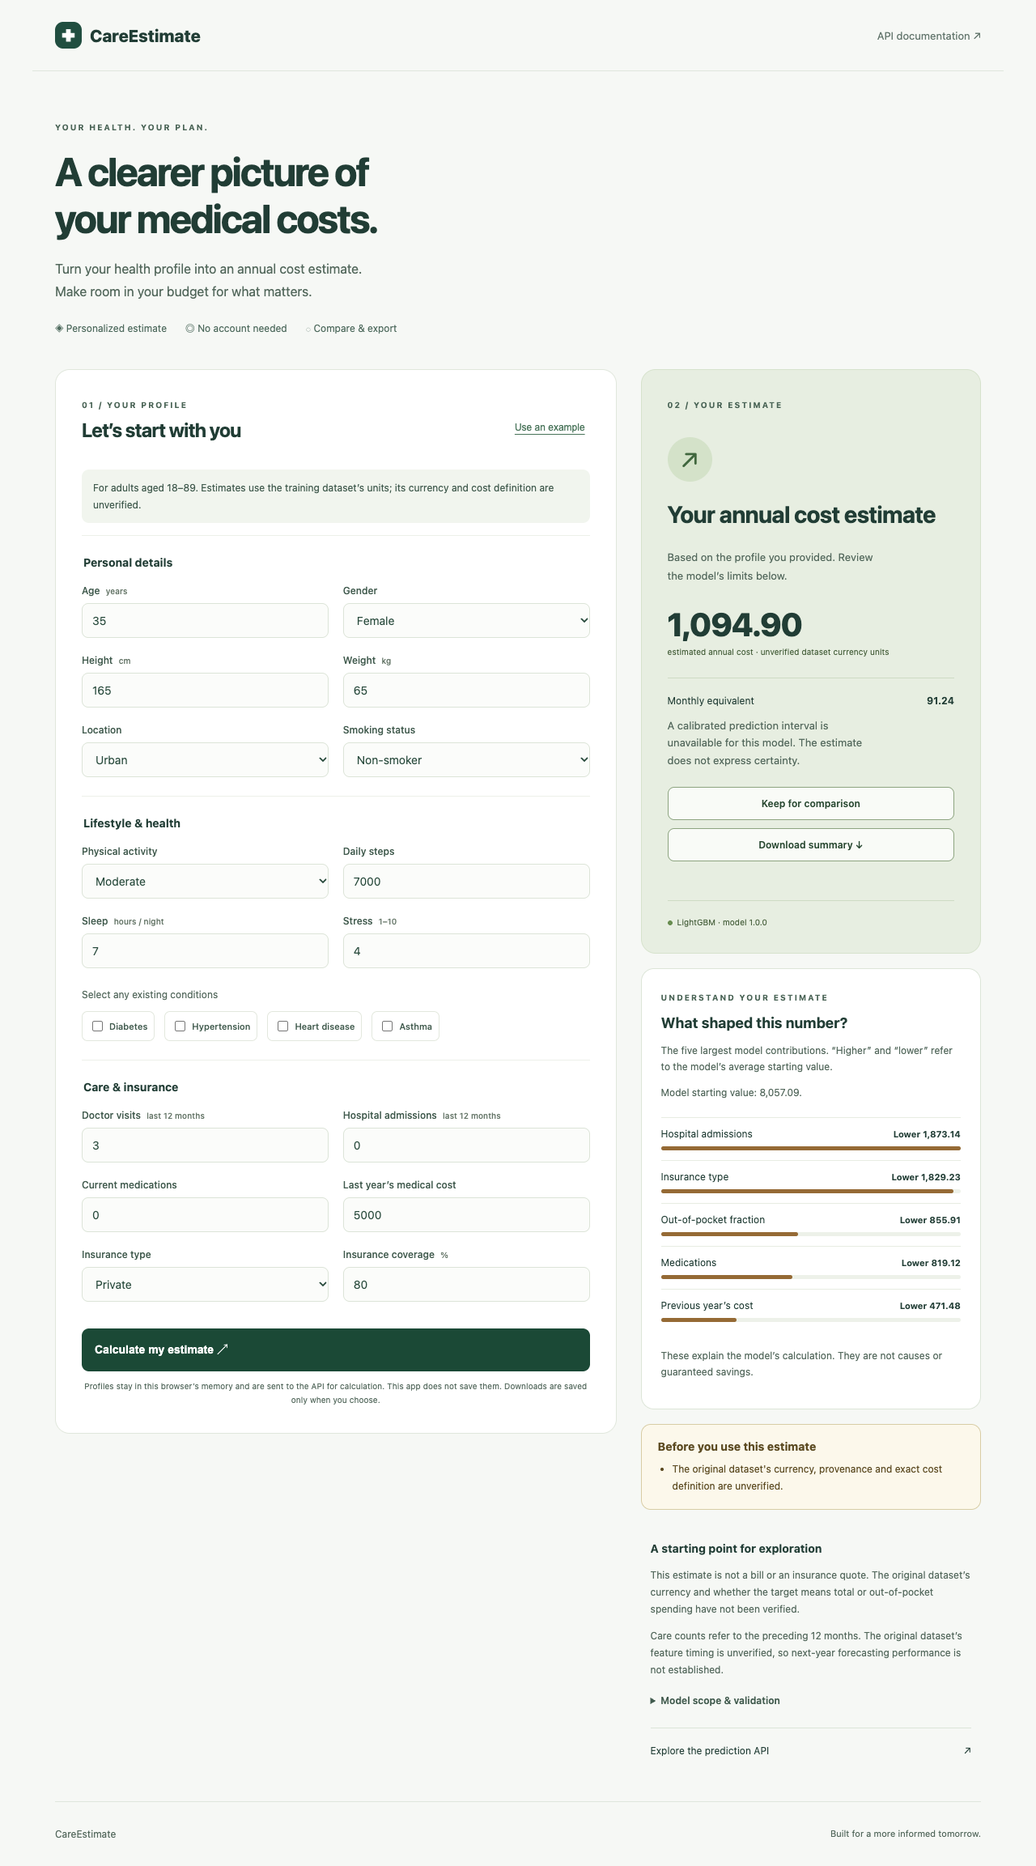
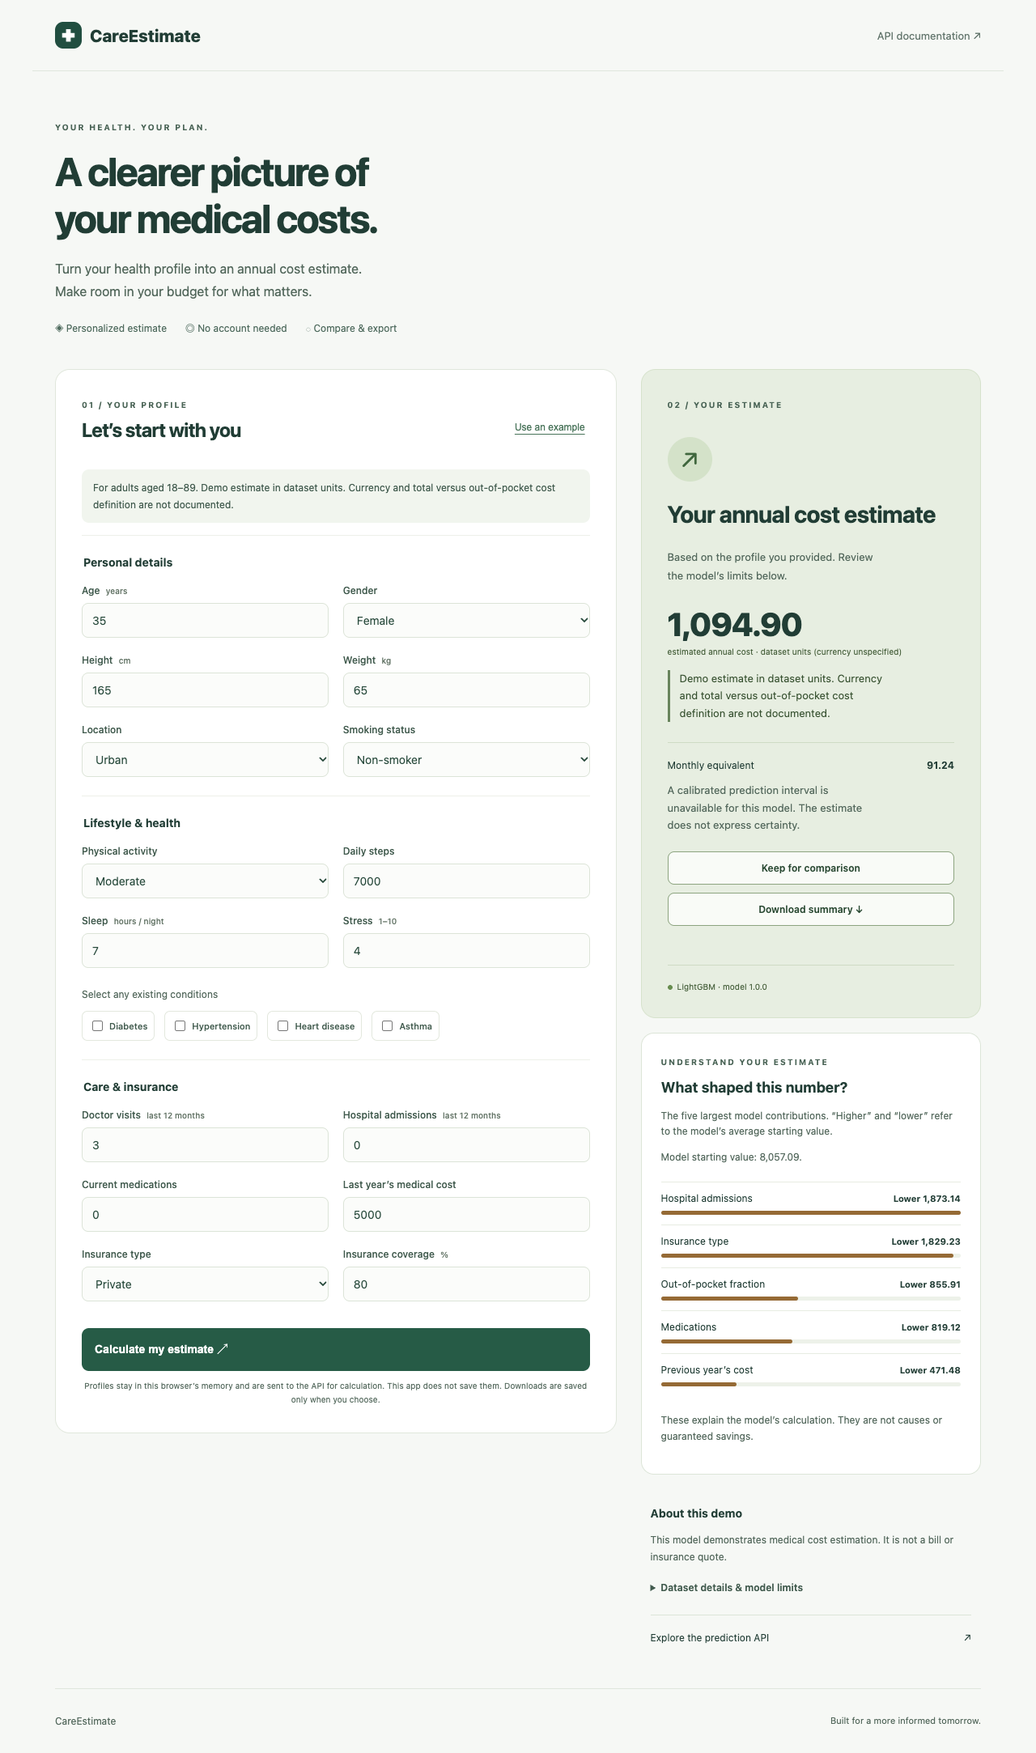
Clarify dataset documentation status and separate profile warnings

diff --git a/static/index.html b/static/index.html
@@ -9,7 +9,7 @@
 <div class="workspace">
 <form id="estimate-form" aria-describedby="scope-note">
 <div class="form-heading"><div><span class="eyebrow">01 / YOUR PROFILE</span><h2>Let’s start with you</h2></div><button class="text-button" id="example" type="button">Use an example</button></div>
-<p class="form-note" id="scope-note">For adults aged 18–89. Estimates use the training dataset’s units; its currency and cost definition are unverified.</p>
+<p class="form-note" id="scope-note">Educational demo for adults aged 18–89. Amounts use dataset units, with no confirmed currency or total versus out-of-pocket cost definition.</p>
 <fieldset><legend>Personal details</legend><div class="fields">
 <label>Age <span>years</span><input name="age" type="number" min="18" max="89" value="35" required></label>
 <label>Gender<select name="gender_raw"><option value="female">Female</option><option value="male">Male</option></select></label>
@@ -40,6 +40,7 @@
 <div role="status" aria-live="polite"><h2 id="result-heading">Plan with a little<br>more clarity.</h2><p id="result-description">Complete your profile to see your estimated annual medical cost.</p></div>
 <div id="result" hidden>
 <div class="amount" id="amount"></div><span class="unit" id="currency-unit">estimated annual cost · dataset currency units</span>
+<p class="dataset-note" id="dataset-note"></p>
 <div class="monthly"><span>Monthly equivalent</span><strong id="monthly"></strong></div>
 <p class="interval" id="interval"></p><p class="uncertainty" id="uncertainty"></p>
 <div class="result-actions"><button id="pin" type="button" class="secondary">Keep for comparison</button><button id="download" type="button" class="secondary">Download summary ↓</button></div>
@@ -51,9 +52,9 @@
 <table><caption class="sr-only">Annual cost comparison in dataset currency units</caption><thead><tr><th scope="col">Kept estimate</th><th scope="col">Current estimate</th></tr></thead><tbody><tr><td id="baseline-amount"></td><td id="current-amount"></td></tr></tbody></table>
 <p id="difference"></p><ul id="changed-fields"></ul><p class="small">A model comparison shows associations. It does not predict the effect of changing your lifestyle or insurance.</p></section>
 <section id="explanation" class="detail-card" hidden aria-labelledby="explanation-heading"><span class="eyebrow">UNDERSTAND YOUR ESTIMATE</span><h3 id="explanation-heading">What shaped this number?</h3><p class="small">The five largest model contributions. “Higher” and “lower” refer to the model’s average starting value.</p><p id="base-value" class="small"></p><ol id="factors" class="factors"></ol><p class="small">These explain the model’s calculation. They are not causes or guaranteed savings.</p></section>
-<section id="warnings" class="notice" hidden aria-labelledby="warnings-heading"><h3 id="warnings-heading">Before you use this estimate</h3><ul id="warning-list"></ul></section>
-<section class="help"><h3>A starting point for exploration</h3><p>This estimate is not a bill or an insurance quote. The original dataset’s currency and whether the target means total or out-of-pocket spending have not been verified.</p><p>Care counts refer to the preceding 12 months. The original dataset’s feature timing is unverified, so next-year forecasting performance is not established.</p>
-<details id="model-details"><summary>Model scope & validation</summary><p id="model-status">Loading model information…</p><a href="/model-info">View model information ↗</a></details></section>
+<section id="warnings" class="notice" hidden aria-labelledby="warnings-heading"><h3 id="warnings-heading">Check these profile details</h3><ul id="warning-list"></ul></section>
+<section class="help"><h3>About this demo</h3><p>This model demonstrates medical cost estimation. It is not a bill or insurance quote.</p>
+<details id="model-details"><summary>Dataset details & model limits</summary><ul id="dataset-details"><li>Currency, original source and total versus out-of-pocket cost definition are not documented.</li></ul><p>Care counts refer to the preceding 12 months. The original dataset’s feature timing is unverified, so next-year forecasting performance is not established.</p><p id="model-status">Loading model information…</p><a href="/model-info">View model information ↗</a></details></section>
 <a class="api-link" href="/docs">Explore the prediction API <span>↗</span></a>
 </aside>
 </div>

diff --git a/static/style.css b/static/style.css
@@ -3,3 +3,4 @@
 .skip-link{position:absolute;left:12px;top:-100px;background:#fff;padding:12px;z-index:5}.skip-link:focus{top:12px}.sr-only{position:absolute;width:1px;height:1px;padding:0;overflow:hidden;clip:rect(0,0,0,0);white-space:nowrap;border:0}
 .form-note{background:#f1f5ee;border-radius:9px;padding:12px 14px;font-size:12px;color:#405a4d}.result-actions{display:flex;flex-direction:column;gap:10px;margin-top:22px}.secondary{background:#f9fbf7;border:1px solid #8da480;color:#26462f;border-radius:8px;padding:12px;font:600 12px system-ui,sans-serif;cursor:pointer}.secondary:hover{background:#fff}.secondary:disabled{opacity:.6;cursor:default}.detail-card{background:#fff;border:1px solid #dce5d8;border-radius:16px;padding:24px;margin-top:18px}.detail-card h3{font-size:18px;line-height:1.4;margin:12px 0}.small,.uncertainty{font-size:12px;line-height:1.65}.interval{font-size:14px;font-weight:600}.notice{border:1px solid #d8cda5;background:#fcf8eb;border-radius:12px;padding:18px 20px;margin-top:18px;color:#5c4b22}.notice p,.notice li{color:#5c4b22;font-size:12px;line-height:1.7}.notice h3{font-size:14px;margin:0 0 10px}.notice ul{margin:0;padding-left:18px}.notice li+li{margin-top:8px}.notice .text-button{color:#5c4b22;padding:6px 0}.factors{list-style:none;padding:0;margin:20px 0}.factors li{padding:12px 0;border-top:1px solid #e7ece2}.factor-label{display:flex;justify-content:space-between;align-items:baseline;gap:12px;font-size:12px}.factor-label strong{white-space:nowrap;font-size:11px}.factor-track{height:5px;background:#edf1e9;border-radius:4px;margin-top:8px}.factor-bar{height:5px;background:#426b52;border-radius:4px;max-width:100%}.factor-bar.negative{background:#956a35}table{width:100%;border-collapse:collapse;font-size:12px;margin-top:18px}th,td{text-align:left;padding:10px 6px;border-bottom:1px solid #e1e7dc}th{font-size:11px;font-weight:500;color:#4a6053}td{font-size:17px;font-weight:700}#difference{font-weight:600;color:#294b39}#changed-fields{padding-left:18px;font-size:12px;line-height:1.7;color:#4a6053}.help details{font-size:12px;color:#405a4d}.help summary{padding:8px 0;cursor:pointer;font-weight:600}.help details a{text-decoration:underline}.help details p{overflow-wrap:anywhere}.tags{flex-wrap:wrap}.eyebrow{color:#4a6456}label span{color:#627365}.unit,.result-footer{color:#48613d}p{color:#53685c}.privacy{line-height:1.7}.fields input:disabled,.fields select:disabled{opacity:.7}.help p{color:#53685c}@media(min-width:850px){aside{position:static}}@media(prefers-reduced-motion:reduce){html{scroll-behavior:auto}}
 footer{color:#53685c}
+.dataset-note{font-size:12px;line-height:1.65;border-left:3px solid #68845c;padding-left:12px;margin-top:16px;color:#36502f}.help details ul{padding-left:18px;line-height:1.7}.help details li+li{margin-top:8px}

diff --git a/static/app.js b/static/app.js
@@ -85,6 +85,7 @@ function render(result) {
   $('#amount').textContent = format(result.predicted_medical_cost);
   $('#monthly').textContent = format(result.predicted_medical_cost / 12);
   $('#currency-unit').textContent = `estimated annual cost · ${result.currency}`;
+  renderDatasetStatus(result.dataset_status);
   $('#model-version').textContent = `LightGBM · model ${result.model_version}`;
   $('#result-heading').textContent = 'Your annual cost estimate';
   $('#result-description').textContent = 'Based on the profile you provided. Review the model’s limits below.';
@@ -112,6 +113,27 @@ function render(result) {
   $('#warnings').hidden = !result.warnings.length;
   $('#result').hidden = false; $('#explanation').hidden = false;
   comparison();
+}
+
+function renderDatasetStatus(status) {
+  const notes = status?.notes || ['Dataset documentation could not be loaded. Currency and cost definition have not been confirmed.'];
+  const details = $('#dataset-details');
+  details.replaceChildren();
+  for (const message of notes) {
+    const item = document.createElement('li'); item.textContent = message; details.append(item);
+  }
+  if (!notes.length) {
+    const item = document.createElement('li'); item.textContent = 'Source, currency and cost definition are documented in the model information.'; details.append(item);
+  }
+  const missing = status?.missing_details;
+  const note = !status ? 'Demo estimate. Dataset documentation could not be loaded.'
+    : missing.includes('currency') && missing.includes('cost_definition') ? 'Demo estimate in dataset units. Currency and total versus out-of-pocket cost definition are not documented.'
+    : missing.includes('currency') ? 'Demo estimate in dataset units. Currency is not documented.'
+    : missing.includes('cost_definition') ? 'Demo estimate. Total versus out-of-pocket cost definition is not documented.'
+    : missing.includes('source') ? 'Demo estimate. The original dataset source is not documented.'
+    : 'Model estimate. See dataset details for its scope and limitations.';
+  $('#dataset-note').textContent = note;
+  $('#scope-note').textContent = `For adults aged 18–89. ${note}`;
 }
 
 form.addEventListener('submit', async event => {
@@ -152,5 +174,6 @@ form.addEventListener('submit', async event => {
 });
 syncInsurance();
 fetch('/model-info').then(response => { if (!response.ok) throw new Error(); return response.json(); }).then(info => {
+  renderDatasetStatus(info.dataset_status);
   $('#model-status').textContent = `Model ${info.model_version}. ${info.validation_status}`;
 }).catch(() => { $('#model-status').textContent = 'Model information is unavailable. See the project documentation for known limitations.'; });

diff --git a/tests/test_improvements.py b/tests/test_improvements.py
@@ -11,6 +11,7 @@ from fastapi.testclient import TestClient
 
 from app import app
 from model_bundle import load_bundle
+from schema.dataset import dataset_status
 from schema.user_input import UserRequest
 from training.train import RAW_FEATURES, conformal_radius, prepare_data, train
 
@@ -37,7 +38,10 @@ def test_explanations_reconcile_and_uncertainty_is_honest(client, profile):
     assert len(result['explanation']['contributions']) == 20
     assert result['prediction_interval'] is None
     assert 'unavailable' in result['uncertainty_note']
-    assert result['warnings']
+    assert result['warnings'] == []
+    assert result['dataset_status']['status'] == 'incomplete'
+    assert result['dataset_status']['missing_details'] == ['currency', 'source', 'cost_definition']
+    assert result['currency'] == 'dataset units (currency unspecified)'
 
 
 @pytest.mark.parametrize('changes', [dict(age=17), dict(age=90), dict(insurance_type_raw='no_insurance'),
@@ -69,6 +73,39 @@ def test_monitoring_contains_only_aggregates_and_security_headers(client, profil
     assert 'feature="daily_steps"} 1' in metrics
     assert '20000' not in metrics and 'gender_raw' not in metrics
     assert client.get('/model-info').json()['dataset']['source_url'] is None
+
+
+@pytest.mark.parametrize('field,value,missing', [
+    ('currency', None, 'currency'),
+    ('currency', '   ', 'currency'),
+    ('source_url', None, 'source'),
+    ('source_url', 'not-a-url', 'source'),
+    ('target_definition', None, 'cost_definition'),
+    ('target_definition', 'Unverified: cost definition', 'cost_definition'),
+])
+def test_dataset_gaps_are_reported_independently(field, value, missing):
+    dataset = dict(currency='TEST', source_url='https://example.invalid/test-fixture',
+                   target_definition='Artificial total spending target for a test fixture')
+    dataset[field] = value
+    status = dataset_status(dataset)
+    assert status.status == 'incomplete'
+    assert status.missing_details == [missing]
+    assert len(status.notes) == 1
+
+
+def test_documented_dataset_does_not_claim_independent_verification():
+    status = dataset_status(dict(currency='TEST', source_url='https://example.invalid/test-fixture',
+                                 target_definition='Artificial test cost'))
+    assert status.status == 'documented'
+    assert status.notes == []
+
+
+def test_cost_definition_gap_remains_visible_with_source_and_currency(client, profile):
+    app.state.metadata['dataset'].update(currency='TEST', source_url='https://example.invalid/test-fixture')
+    result = client.post('/predict', json=profile).json()
+    assert result['dataset_status']['missing_details'] == ['cost_definition']
+    assert 'out-of-pocket' in result['dataset_status']['notes'][0]
+    assert result['dataset_status'] == client.get('/model-info').json()['dataset_status']
 
 
 def test_calibrated_interval_and_outside_suppression(client, profile):

diff --git a/app.py b/app.py
@@ -13,11 +13,12 @@ import numpy as np
 
 from model_bundle import load_bundle
 from monitoring import ServiceMetrics
+from schema.dataset import dataset_status
 from schema.output import PredictionResponse
 from schema.user_input import UserRequest, MODEL_FEATURES
 
 BASE_DIR = Path(__file__).resolve().parent
-APP_VERSION = "2.0.0"
+APP_VERSION = "2.1.0"
 logger = logging.getLogger(__name__)
 
 
@@ -89,10 +90,8 @@ def predict(request: UserRequest) -> dict:
         logger.error("Model inference failed")
         app.state.metrics.record("failure", 0, [])
         raise HTTPException(status_code=503, detail="Unable to calculate an estimate. Please try again.") from None
-    warnings = [
-        "The original dataset's currency, provenance and exact cost definition are unverified."
-    ] if metadata["dataset"].get("currency") is None or metadata["dataset"].get("source_url") is None else []
-    warnings.extend(f"{name.replace('_', ' ').capitalize()} is outside the recorded training range; this estimate may be unreliable." for name in outside)
+    documentation = dataset_status(metadata["dataset"])
+    warnings = [f"{name.replace('_', ' ').capitalize()} is outside the recorded training range; this estimate may be unreliable." for name in outside]
     interval = None
     uncertainty_note = "A calibrated prediction interval is unavailable for this model. The estimate does not express certainty."
     calibration = metadata.get("interval")
@@ -110,7 +109,8 @@ def predict(request: UserRequest) -> dict:
     return {
         "predicted_medical_cost": round(prediction, 2),
         "model_version": metadata["model_version"],
-        "currency": metadata["dataset"].get("currency") or "unverified dataset currency units",
+        "currency": "dataset units (currency unspecified)" if "currency" in documentation.missing_details else metadata["dataset"]["currency"],
+        "dataset_status": documentation.model_dump(),
         "warnings": warnings,
         "explanation": {
             "base_value": float(contributions[-1]),
@@ -140,10 +140,12 @@ def health_check():
 def model_info():
     """Public provenance and validation status; no submitted profiles."""
     metadata = app.state.metadata
-    return {key: metadata.get(key) for key in (
+    result = {key: metadata.get(key) for key in (
         "model_version", "artifact_sha256", "dataset", "validation_status",
         "historical_metrics", "observed_ranges", "interval",
     )}
+    result["dataset_status"] = dataset_status(metadata["dataset"]).model_dump()
+    return result
 
 
 @app.get("/metrics", response_class=PlainTextResponse)

diff --git a/schema/dataset.py b/schema/dataset.py
@@ -1,0 +1,41 @@
+"""Describe missing dataset documentation without inventing provenance or units."""
+from typing import Literal
+from urllib.parse import urlparse
+
+from pydantic import BaseModel
+
+
+class DatasetStatus(BaseModel):
+    status: Literal["incomplete", "documented"]
+    missing_details: list[Literal["currency", "source", "cost_definition"]]
+    notes: list[str]
+
+
+def documented(value) -> bool:
+    """A populated description is documented, not independently verified."""
+    if not isinstance(value, str):
+        return False
+    text = value.strip().lower()
+    return bool(text) and text not in {"unknown", "unspecified", "not specified", "n/a", "tbd"} and not text.startswith("unverified")
+
+
+def dataset_status(dataset: dict) -> DatasetStatus:
+    source = dataset.get("source_url")
+    try:
+        parsed = urlparse(source.strip()) if isinstance(source, str) else None
+    except ValueError:
+        parsed = None
+    checks = [
+        ("currency", documented(dataset.get("currency")),
+         "Currency is not specified; amounts are shown in dataset units."),
+        ("source", bool(parsed and parsed.scheme in {"https", "http"} and parsed.netloc),
+         "The original dataset source is not recorded."),
+        ("cost_definition", documented(dataset.get("target_definition")),
+         "Whether costs mean total spending or patient out-of-pocket spending is not established."),
+    ]
+    missing = [(name, note) for name, present, note in checks if not present]
+    return DatasetStatus(
+        status="incomplete" if missing else "documented",
+        missing_details=[name for name, _ in missing],
+        notes=[note for _, note in missing],
+    )

diff --git a/schema/output.py b/schema/output.py
@@ -1,4 +1,5 @@
 from pydantic import BaseModel, Field
+from schema.dataset import DatasetStatus
 
 
 class FeatureContribution(BaseModel):
@@ -23,7 +24,8 @@ class PredictionInterval(BaseModel):
 class PredictionResponse(BaseModel):
     predicted_medical_cost: float = Field(ge=0, allow_inf_nan=False, description="Annual estimate in dataset currency units")
     model_version: str
-    currency: str = "unverified dataset currency units"
+    currency: str = "dataset units (currency unspecified)"
+    dataset_status: DatasetStatus
     warnings: list[str]
     explanation: Explanation
     prediction_interval: PredictionInterval | None = None

diff --git a/README.md b/README.md
@@ -186,13 +186,13 @@ curl --request POST http://localhost:8000/predict \
   }'
 ```
 
-The response retains `predicted_medical_cost` and adds model version, currency, warnings, full feature contributions, uncertainty status, and an optional calibrated interval. Selected fields from the included model:
+The response retains `predicted_medical_cost` and adds model version, currency, warnings, full feature contributions, uncertainty status, an optional calibrated interval, and structured `dataset_status` documentation notes. Selected fields from the included model:
 
 ```json
 {
   "predicted_medical_cost": 1094.9,
   "model_version": "1.0.0",
-  "currency": "unverified dataset currency units",
+  "currency": "dataset units (currency unspecified)",
   "prediction_interval": null
 }
 ```
@@ -211,7 +211,7 @@ The response retains `predicted_medical_cost` and adds model version, currency, 
 
 Categories are trimmed and case-insensitive. The API accepts insurance coverage as a fraction from `0` to `1`; the web form accepts a percentage. BMI and the out-of-pocket fraction are derived automatically.
 
-Ages must be **18–89**. `no_insurance` requires zero coverage. Unknown fields, invalid categories, non-finite numbers, negative counts/costs, zero height/weight, and out-of-range bounded inputs return **HTTP 422** without echoing submitted values. Other recorded training-range excursions return warnings. Model unavailability or prediction failures return **HTTP 503**.
+Ages must be **18–89**. `no_insurance` requires zero coverage. Unknown fields, invalid categories, non-finite numbers, negative counts/costs, zero height/weight, and out-of-range bounded inputs return **HTTP 422** without echoing submitted values. Other recorded training-range excursions return warnings. Missing dataset documentation appears separately in `dataset_status`, with a visible demo note beside the estimate. Model unavailability or prediction failures return **HTTP 503**.
 
 </details>
 

diff --git a/docs/OPERATIONS.md b/docs/OPERATIONS.md
@@ -32,3 +32,9 @@ Automated accessibility checks cover only the tested states and do not replace m
 API v2 retains `predicted_medical_cost` and adds version, currency, warnings, contributions, uncertainty status and optional intervals. Stricter validation now rejects ages outside 18–89, unknown fields and nonzero coverage with `no_insurance`. Consumers that send extra fields or expect a one-field response must adapt.
 
 The historical model is unchanged. Improvements to interface and validation are not evidence of improved predictive accuracy. Review the [data card](DATA_CARD.md) before making claims about the model.
+
+## Dataset documentation display (v2.1)
+
+Prediction and model-info responses include `dataset_status`: a `documented` or `incomplete` status, missing detail identifiers, and plain-language notes. Currency, source URL and cost definition are checked separately. A documented value is not a claim of independent verification. Missing, blank and placeholder definitions remain incomplete even when currency and source are present.
+
+Missing documentation is shown as a neutral demo note next to the estimate, with details in “Dataset details & model limits.” Yellow warnings are reserved for profile inputs outside recorded ranges. The original documentation gap is unresolved; no currency or cost definition has been invented. Downloaded summaries retain the same structured status.

diff --git a/docs/DATA_CARD.md b/docs/DATA_CARD.md
@@ -30,3 +30,7 @@ The UI now explicitly asks for care utilization in the preceding 12 months. This
 6. Review baseline errors, subgroup counts, residuals, interval coverage, and the source license before promoting a model.
 
 The new training script intentionally rejects missing categories. Never replace the absent original CSV with a generated dataset while retaining claims about the original model's quality.
+
+## User-facing documentation status
+
+The app labels this model as an educational demo and uses “dataset units (currency unspecified).” It displays the unresolved currency and cost basis beside the prediction, while “Dataset details & model limits” lists the source gap and timing limitations. This replaces the repeated generic yellow documentation warning. Actual range warnings remain yellow. Repository history and matching local dataset filenames were checked, but no original CSV or authoritative data dictionary was recovered. Source, currency and target meaning remain unknown.
